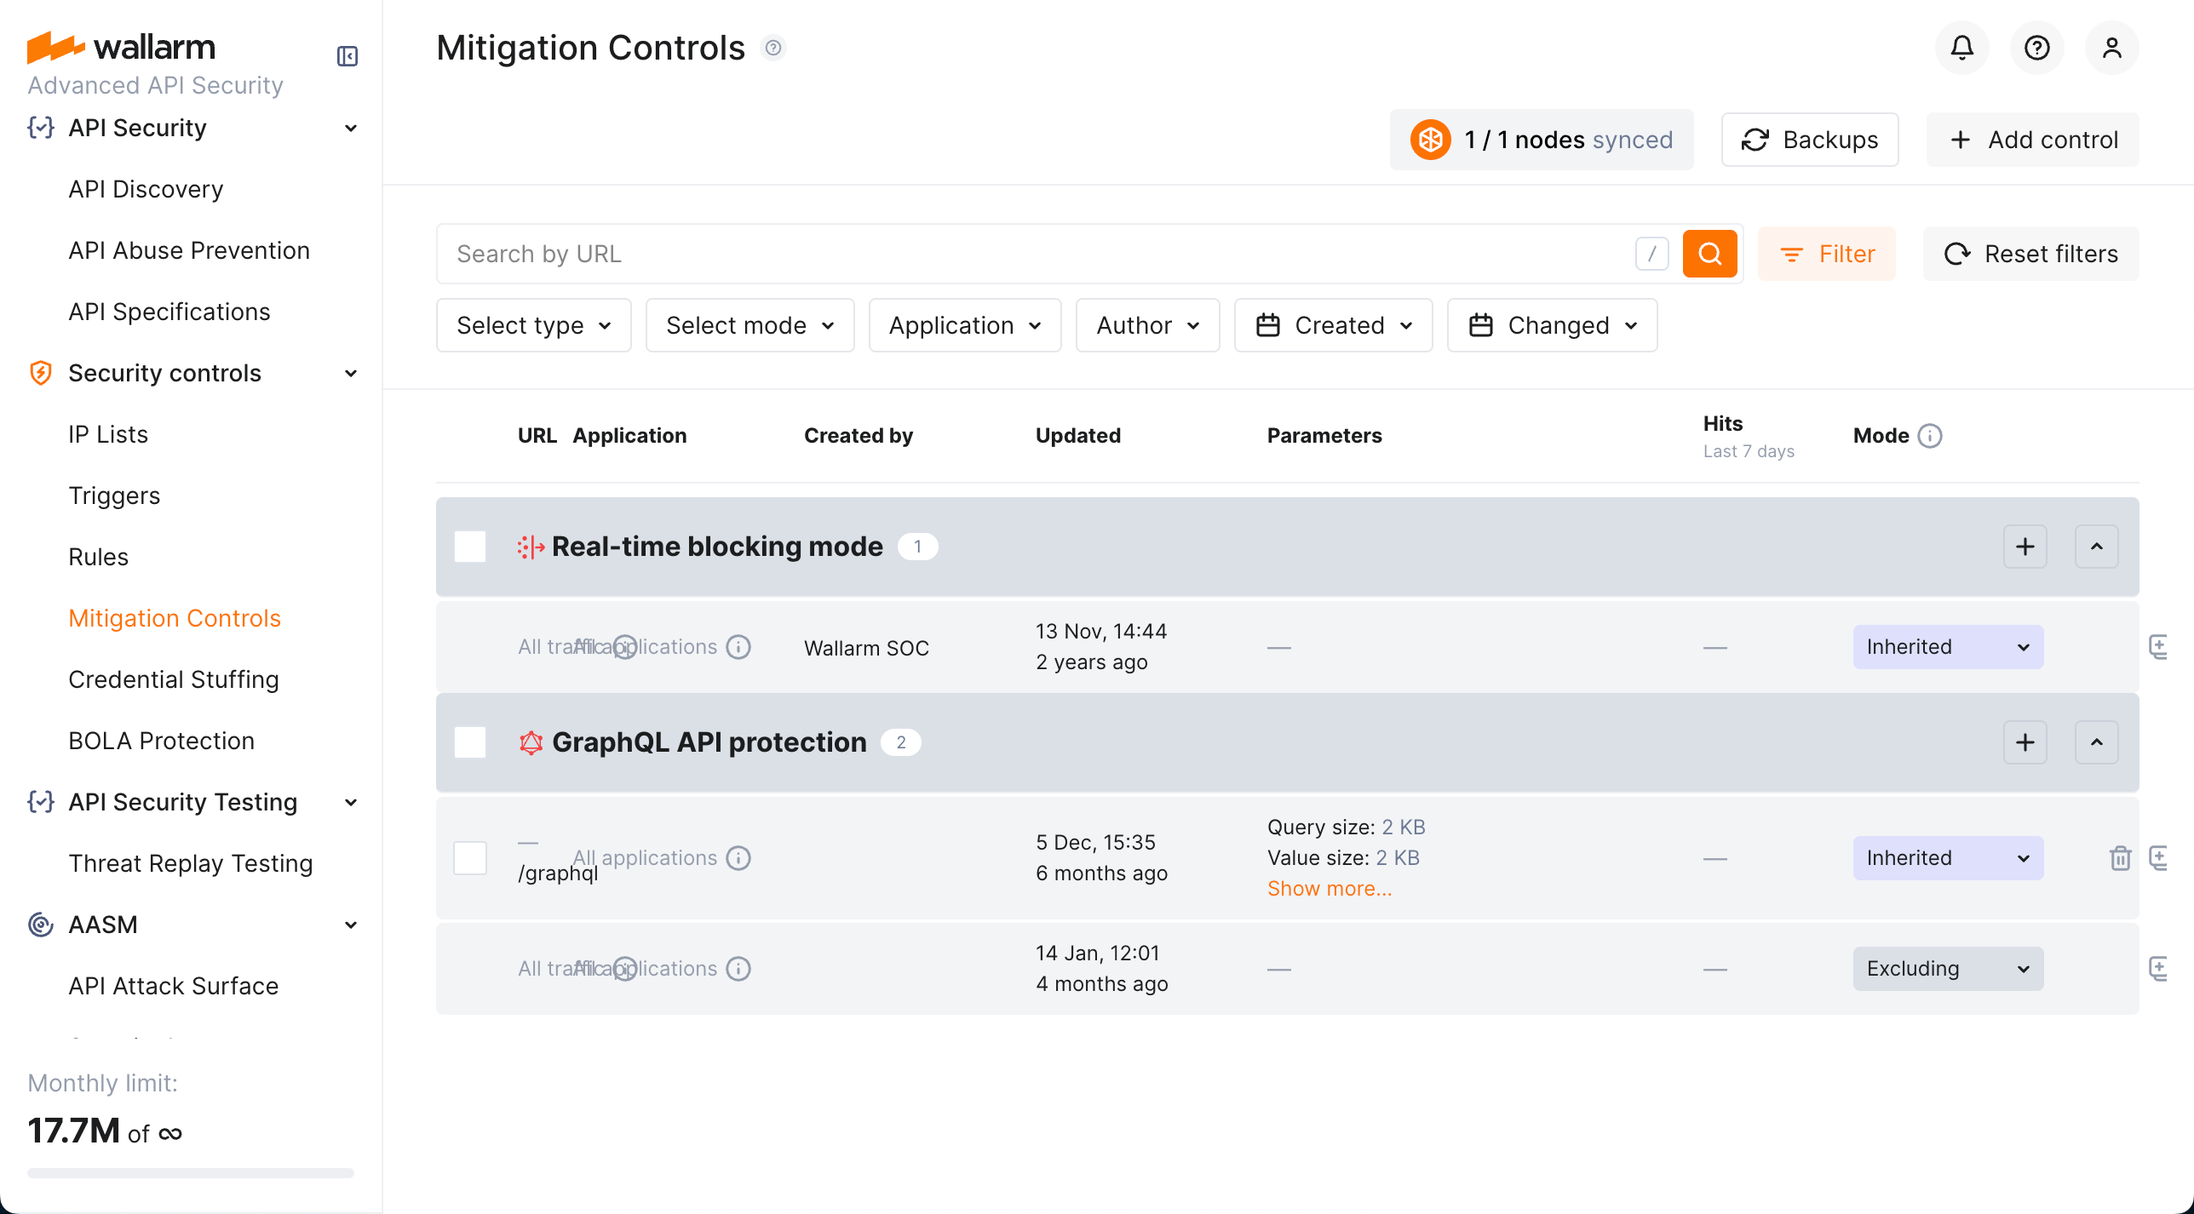
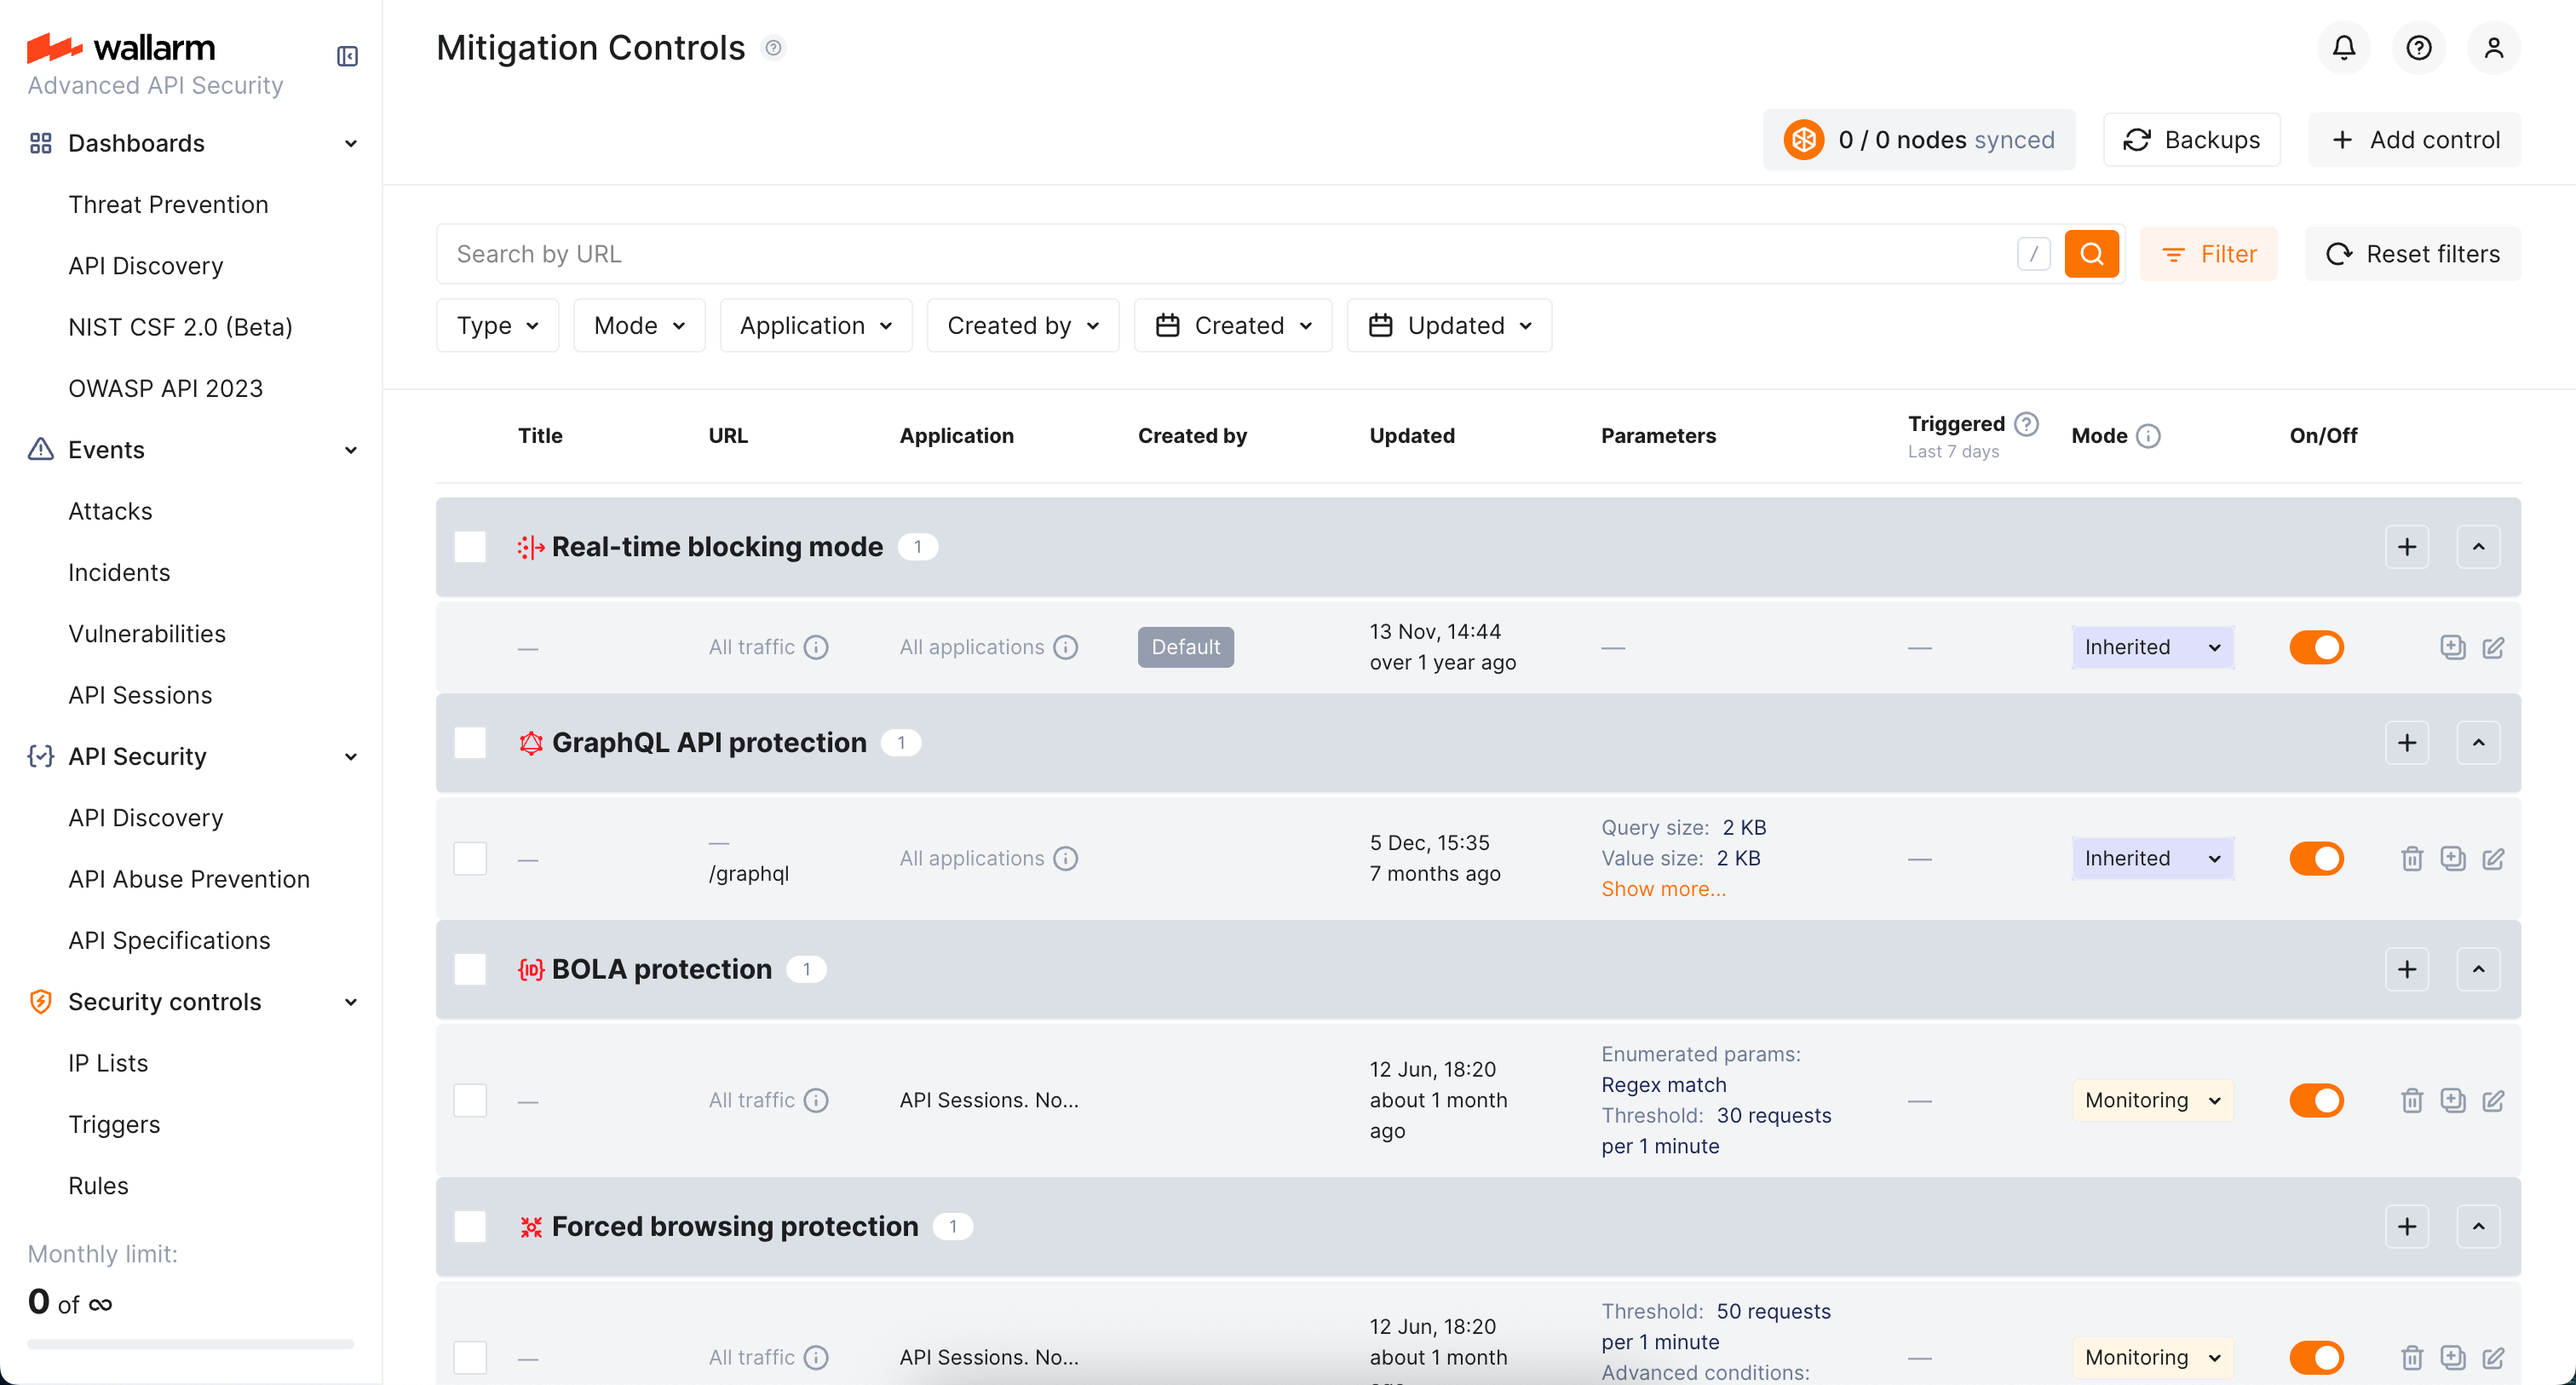
DOCS-3247 MC Title and On/Off

diff --git a/docs/latest/about-wallarm/mitigation-controls-overview.md b/docs/latest/about-wallarm/mitigation-controls-overview.md
@@ -44,8 +44,9 @@ Perform configuring in the **Security controls** → **Mitigation Controls** sec
 
 Before configuring, get familiar with the idea of [branches](#mitigation-control-branches) and check what already exists. 
 
-In general, configuring any mitigation control includes 2 steps:
+In general, configuring any mitigation control includes the following steps:
 
+1. Optionally, set custom **Title**.
 1. Set conditions (when all met → action).
 1. Set action (mitigation mode).
 
@@ -75,13 +76,21 @@ When all conditions are met, mitigation control performs its action. The require
 | **Inherited** | Mode is inherited from the [all-traffic **Real-time blocking mode**](../admin-en/configure-wallarm-mode.md#general-filtration-mode) and the [configuration](../admin-en/configure-wallarm-mode.md#setting-wallarm_mode-directive) of the Wallarm node. |
 | **Monitoring** | Only registers detected attacks; no blocking is performed. Registered attacks are displayed in **API Sessions**, in the corresponding [session details](../api-sessions/exploring.md#specific-activities-within-session). <br> For some controls, in this mode, you can also select additional option of adding source IP in the [Graylist](../user-guides/ip-lists/overview.md). |
 | **Blocking** | Registers and blocks attacks. [Blocking methods](../about-wallarm/protecting-against-attacks.md#attack-handling-process) vary by control type: real-time blocking, [IP-based blocking](../user-guides/ip-lists/overview.md), or session-based blocking<sup>*</sup>. |
-| **Disabled** | Mitigation control is temporarily turned off and is not applied. |
-| **Excluding** | Disables this type of mitigation control for the [specified scope](#mitigation-control-branches). |
+| **Excluding** | Stops this type of mitigation control for the [specified scope](#mitigation-control-branches). See details in [Excluding mode vs. disabling](#excluding-mode-vs-disabling). |
 | **Safe blocking** | Registers attacks but blocks them only if the originating IP is [graylisted](../user-guides/ip-lists/overview.md). |
 
 <small><sup>*</sup> The session-based blocking is not supported so far.</small>
 
 The list of available modes may vary depending on the particular control.
+
+### Excluding mode vs. disabling
+
+You can use **On/Off** switcher to temporarily disable mitigation control and re-enable it when necessary. Consider the example below to understand the difference between disabled mitigation control and the one enabled in Excluding mitigation mode:
+
+* Consider the fact that controls [work in branches](#mitigation-control-branches).
+* Let's say you have [Rate abuse protection](../api-protection/rate-abuse-protection.md) control set for `example.com` (50 request in minute) and control of the same type for child `example.com/login` (10 request in minute). This will result in restriction of 50 request in minute for all addresses under `example.com`, except addresses under `example.com/login` where it will be stricter - 10 request in minute.
+* If you disable (switcher to **Off**) rate abuse protection control for `example.com/login`, it will stop doing anything (as if you deleted it) - restriction for all scope will be defined by parent control (50 request in minute).
+* If you re-enable rate abuse protection control for `example.com/login` and set its mitigation mode to **Excluding**, it will stop rate abuse protection for this branch - restriction for all `example.com` will be 50 request in minute, except `example.com/login` where there will be no restriction of rate abuse protection type at all.
 
 ### Regular expressions
 
